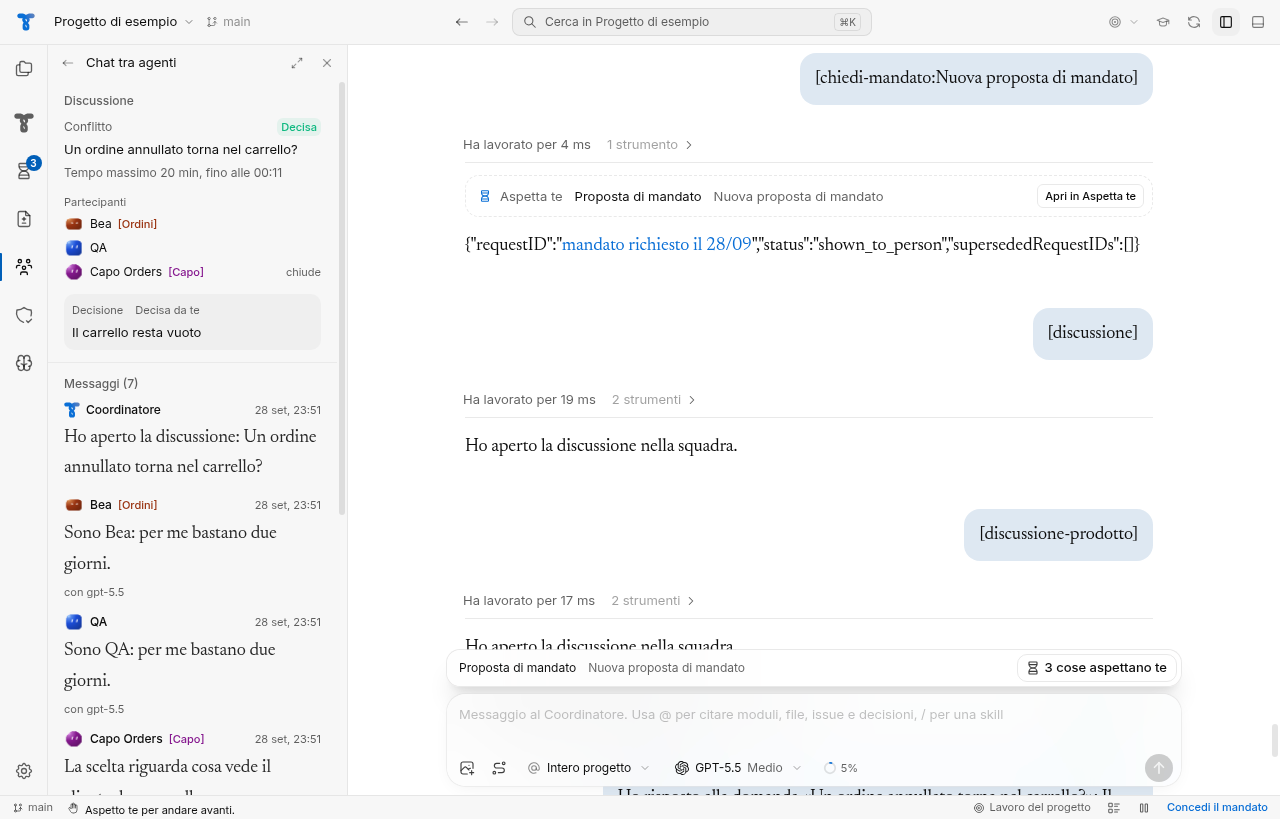
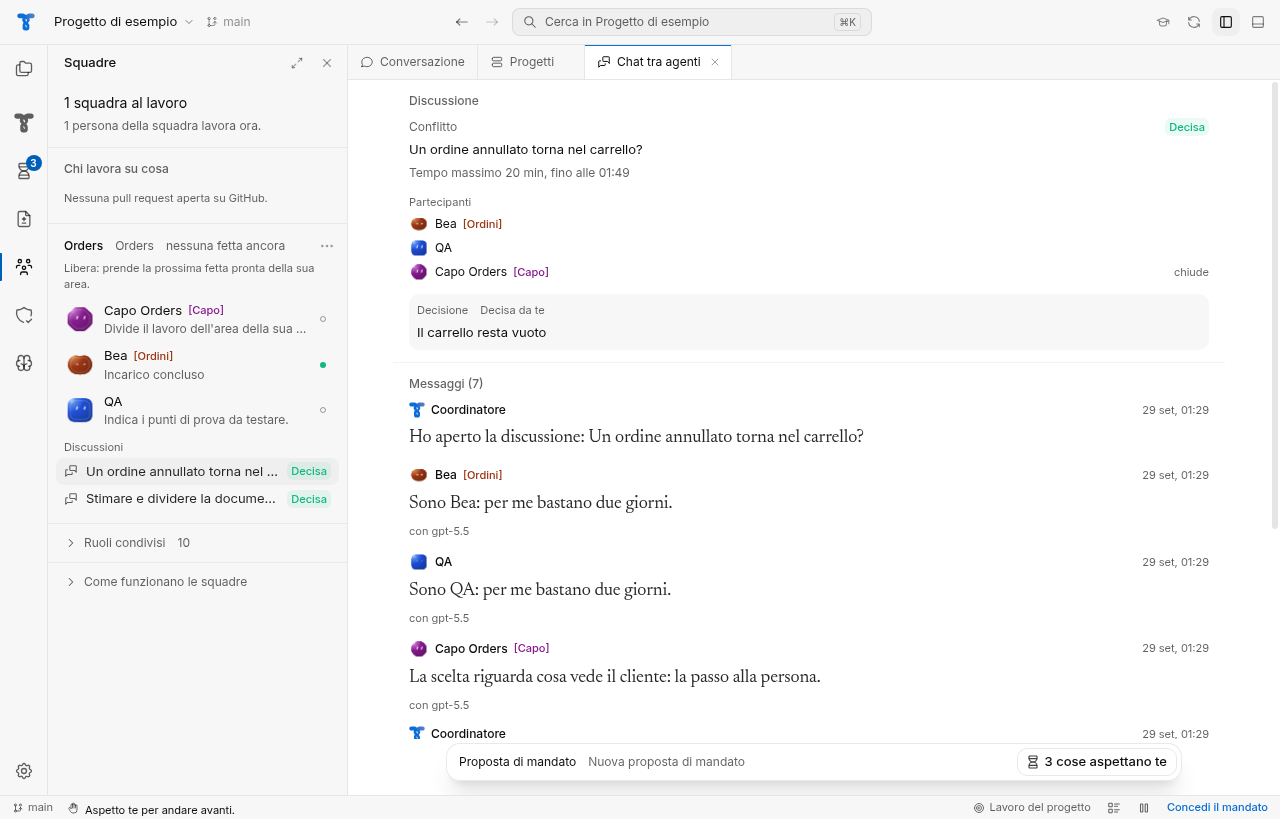
docs: refresh the A12 screenshots with the discussion in its editor tab
Claude-Session: https://claude.ai/code/session_012KszhSrjLDF749CCoLyQZP

diff --git a/docs/verifiche/a12-discussioni-tra-agenti-2026-09-28.md b/docs/verifiche/a12-discussioni-tra-agenti-2026-09-28.md
@@ -29,3 +29,7 @@ Controllo di #252 sul branch `feature/issue-252-timed-agent-discussions-e96min`.
 - Risultati su Linux nel container (xvfb), su main `48397bf`: `tsc` senza errori, `vitest` 164 file e 1548 test passati (3 saltati), `npm run build` ok, `ui-check` completato con 570 schermate (540 su main). Il passo delle discussioni sta alla fine del percorso del progetto di esempio: prima, i suoi turni in più del Coordinatore facevano partire una revisione automatica della memoria e cambiavano i passi successivi.
 
 Non verificato: nessuna esecuzione reale di Codex. Nel catalogo del server di prova di ui-check al momento del passo non c'è un modello leggero, quindi i turni mostrano il modello del ruolo; la scelta del modello leggero è coperta dai test di unità. La scadenza reale al giro periodico (ogni cinque minuti) non è provata in ui-check, che non aspetta il tempo massimo: la coprono i test di unità.
+
+## Riallineamento con B07 (#384)
+
+Dopo il merge di main con B07 la discussione si apre in una scheda dell'editor accanto alla Conversazione, come gli altri dettagli; le righe delle discussioni restano nella vista Squadre e la riga della scheda attiva è segnata. I passi `41a`-`41f` di ui-check leggono la discussione nella scheda. Le schermate dopo in `docs/images/a12/` vengono da questo giro. Risultati su main `910dbfa`: `check-inventory` senza `--write` ok, `tsc` senza errori, `vitest` 168 file e 1627 test passati (3 saltati), `npm run build` ok, `ui-check` completato con 670 schermate.
